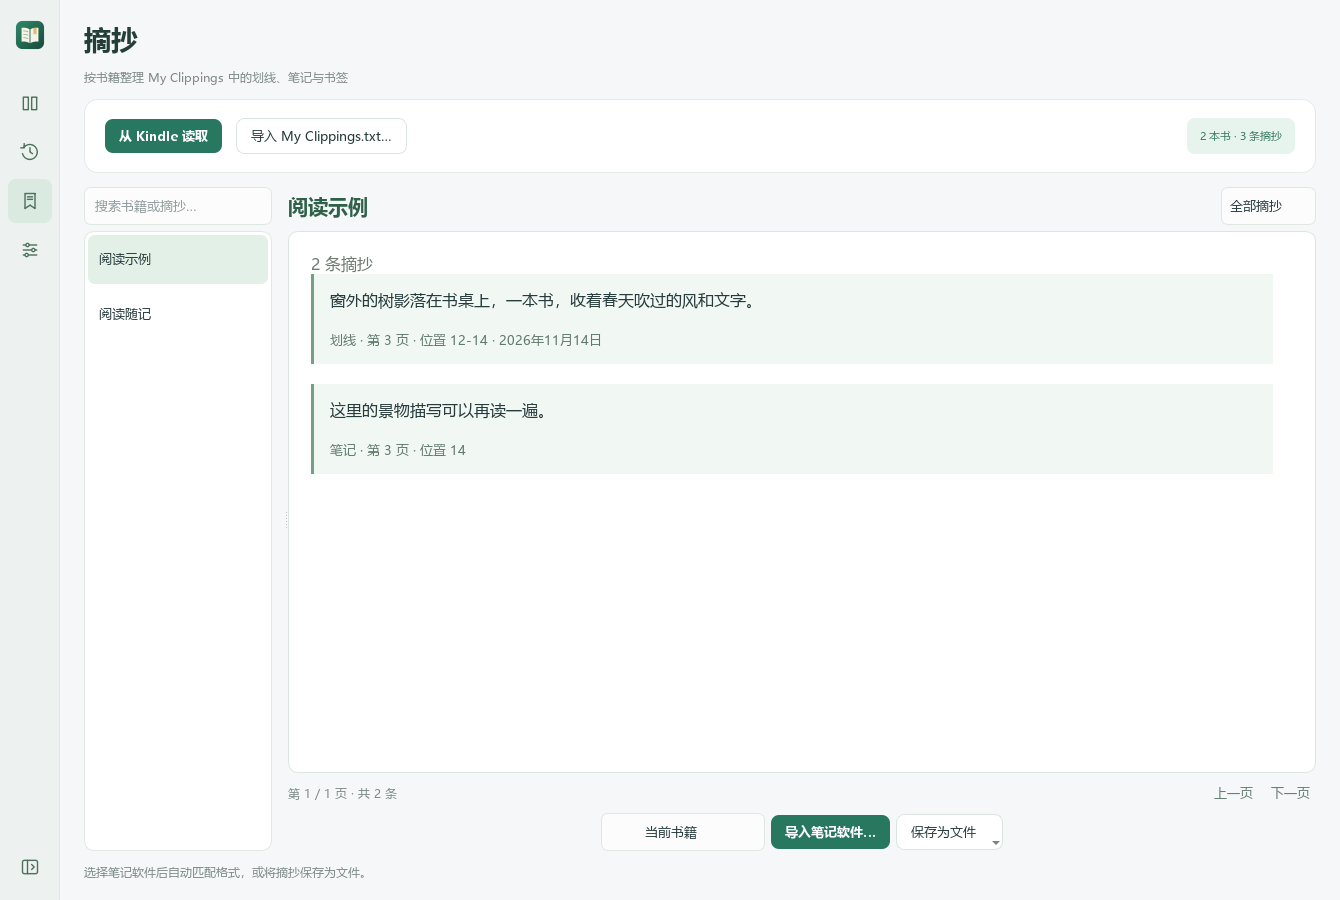
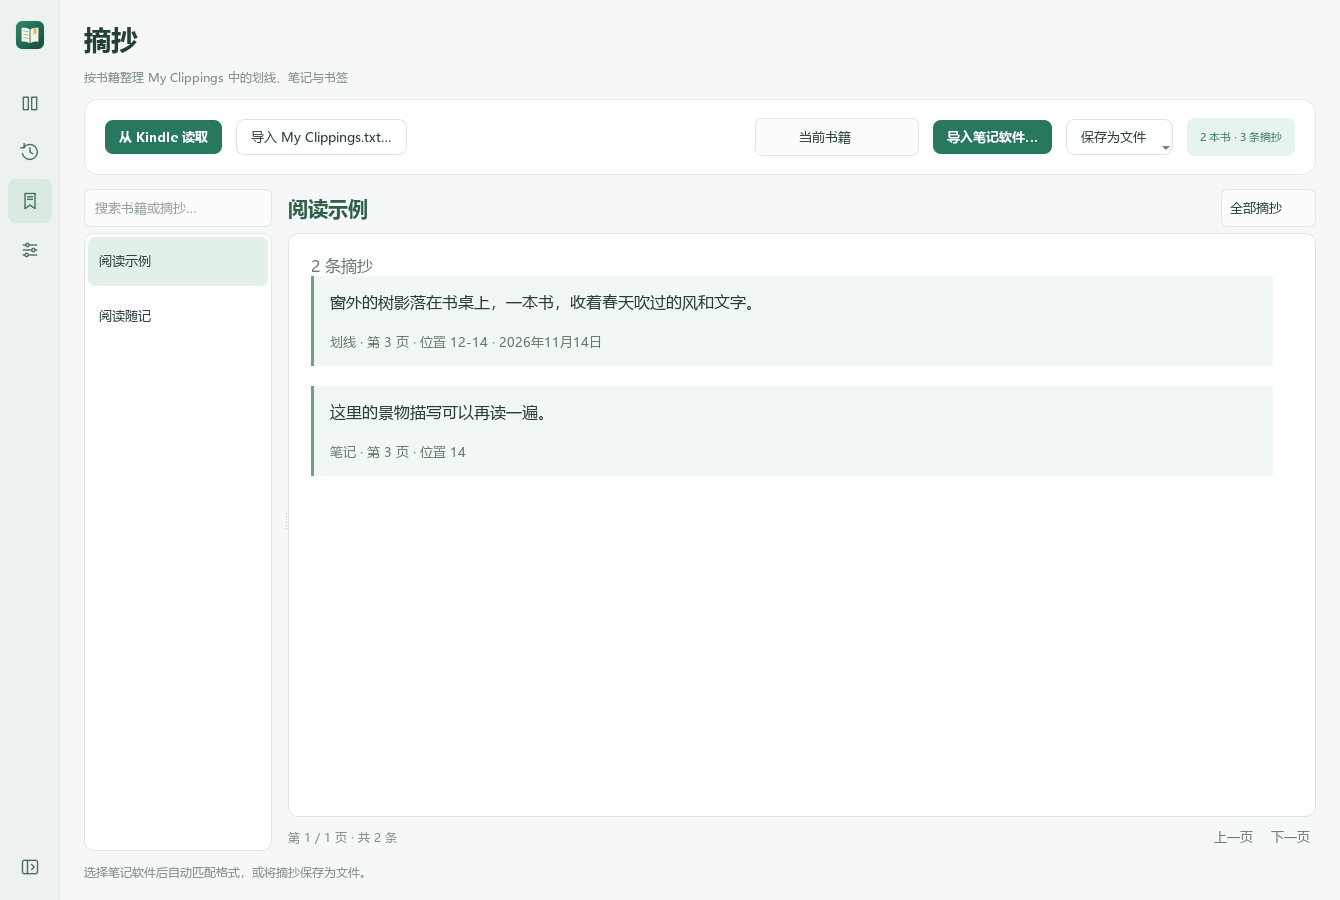
Move clipping actions to top and ask for covers only at batch conversion

diff --git a/lume/ui.py b/lume/ui.py
@@ -29,6 +29,7 @@ class MainWindow(UpgradeControls,DeviceWorkspace,QMainWindow):
         self.history=load_json('history.json',[])
         self.sources=[]
         self.book_covers={}
+        self._individual_covers=False
         self.tasks=[]
         self.font_id=-1
         self.runner=QueueRunner(self)
@@ -114,9 +115,6 @@ class MainWindow(UpgradeControls,DeviceWorkspace,QMainWindow):
         self.clear_button=button('清空',self.clear_queue,'Quiet')
         head.addWidget(self.clear_button)
         q.addLayout(head)
-        self.individual_covers=QCheckBox('为每本书单独设置封面')
-        self.individual_covers.setChecked(self.config.get('individual_covers',False))
-        q.addWidget(self.individual_covers)
         self.queue=table(['书籍','格式','大小','状态'])
         self.queue.setMinimumHeight(130)
         self.queue.itemSelectionChanged.connect(self.select_preview)
@@ -244,10 +242,6 @@ class MainWindow(UpgradeControls,DeviceWorkspace,QMainWindow):
         cw=QWidget()
         cl=QVBoxLayout(cw)
         cl.setContentsMargins(0,14,0,0)
-        self.cover_edit_button=button('逐本设置选中书籍的封面…',self.edit_cover_choices,'Primary')
-        self.cover_edit_button.setEnabled(self.individual_covers.isChecked())
-        cl.addWidget(self.cover_edit_button)
-        self.individual_covers.toggled.connect(self.individual_covers_changed)
         self.cover_preview=QLabel('保留原书封面')
         self.cover_preview.setAlignment(Qt.AlignmentFlag.AlignCenter)
         self.cover_preview.setMinimumHeight(300)
@@ -259,7 +253,7 @@ class MainWindow(UpgradeControls,DeviceWorkspace,QMainWindow):
         cl.addWidget(self.cover_path)
         cl.addWidget(button('选择封面图片…',self.choose_cover,'Primary'))
         cl.addWidget(button('清除选择 · 保留原书封面',lambda:self.set_cover(''),'Quiet'))
-        cl.addWidget(label('上方图片为统一封面。勾选“为每本书单独设置封面”后，改用逐本选择；直接发送保留原文件。','Muted',True))
+        cl.addWidget(label('单本转换使用当前封面；批量转换时可选择逐本设置。直接发送保留原文件。','Muted',True))
         cover_scroll=QScrollArea()
         cover_scroll.setWidgetResizable(True)
         cover_scroll.setWidget(cw)
@@ -406,7 +400,7 @@ class MainWindow(UpgradeControls,DeviceWorkspace,QMainWindow):
         data.update({key:spin.value() for key,spin in self.spins.items()})
         data.update(indent_mode=self.indent_mode.currentData(),alignment=self.alignment.currentData(),
                     font_path=self.font_combo.currentData() or '',subset_font=self.subset.isChecked(),
-                    cover_path='' if self.individual_covers.isChecked() else self.cover_path.text(),
+                    cover_path='' if self._individual_covers else self.cover_path.text(),
                     screen_profile=self.preset_combo.currentData() or 'paperwhite6')
         from .fonts import allow_subset
         data['subset_font']=data['subset_font'] and allow_subset(data['font_path'])
@@ -508,7 +502,6 @@ class MainWindow(UpgradeControls,DeviceWorkspace,QMainWindow):
             else: expanded.append(value)
         paths=expanded
         rejected=[]
-        added=[]
         existing={value.casefold() for value in self.sources}
         for value in paths:
             path=Path(value)
@@ -519,7 +512,6 @@ class MainWindow(UpgradeControls,DeviceWorkspace,QMainWindow):
             if full.casefold() in existing: continue
             existing.add(full.casefold())
             self.sources.append(full)
-            added.append(full)
             row=self.queue.rowCount()
             self.queue.insertRow(row)
             for col,text in enumerate((path.stem,path.suffix[1:].upper(),format_size(path.stat().st_size),'待转换')):
@@ -532,7 +524,6 @@ class MainWindow(UpgradeControls,DeviceWorkspace,QMainWindow):
         self.empty.setVisible(not self.sources)
         if self.sources and self.queue.currentRow()<0: self.queue.selectRow(0)
         self.update_actions()
-        if added and self.individual_covers.isChecked():self.edit_cover_choices(added)
         if rejected: QMessageBox.information(self,'未添加的文件','格式不受支持：\n'+'\n'.join(rejected[:10]))
 
     def queue_checks_changed(self):
@@ -603,7 +594,8 @@ class MainWindow(UpgradeControls,DeviceWorkspace,QMainWindow):
             layout.validate()
             self.config.update(layout=layout.to_dict(),output=self.output_path.text().strip() or str(ROOT/'output'),
                                kindlegen=self.kindlegen.text().strip(),font_dir=self.font_dir.text().strip(),
-                               format=self.output_format.currentData(),individual_covers=self.individual_covers.isChecked())
+                               format=self.output_format.currentData())
+            self.config.pop('individual_covers',None)
             self.config['layout']['cover_path']=self.cover_path.text()
             save_json('settings.json',self.config)
             if notify:
@@ -647,7 +639,7 @@ class MainWindow(UpgradeControls,DeviceWorkspace,QMainWindow):
         self.runner.start(jobs)
 
     def start_conversion(self,send=False):
-        if self._batch_busy or not self.sources or not self.save_settings(notify=False): return
+        if self._batch_busy or not self.sources: return
         device=self.current_device()
         if send:
             from .devices import USB_FORMATS
@@ -655,9 +647,16 @@ class MainWindow(UpgradeControls,DeviceWorkspace,QMainWindow):
             if '.'+self.output_format.currentData() not in USB_FORMATS: return
         self._batch_rows=self.queue.checked_rows()
         if not self._batch_rows: return
-        if self.individual_covers.isChecked():
-            pending=[self.sources[r] for r in self._batch_rows if self.sources[r] not in self.book_covers]
-            if pending and not self.edit_cover_choices(pending):return
+        self._individual_covers=False
+        if len(self._batch_rows)>1 and self.output_format.currentData()!='txt':
+            choice=self.choose_batch_cover_mode(len(self._batch_rows))
+            if choice is None:return
+            if choice=='individual':
+                self._individual_covers=True
+                if not self.edit_cover_choices([self.sources[r] for r in self._batch_rows]):
+                    self._individual_covers=False
+                    return
+        if not self.save_settings(notify=False):return
         try:
             layouts={r:self.layout_for_source(self.sources[r]) for r in self._batch_rows}
         except Exception as exc:
@@ -683,8 +682,6 @@ class MainWindow(UpgradeControls,DeviceWorkspace,QMainWindow):
         for b in (self.add_button,self.remove_button,self.clear_button): b.setEnabled(not value)
         self.cancel_button.setEnabled(value)
         self.output_format.setEnabled(not value)
-        self.individual_covers.setEnabled(not value)
-        self.cover_edit_button.setEnabled(not value and self.individual_covers.isChecked())
         self.preset_combo.setEnabled(not value)
         self.update_actions()
 
@@ -737,6 +734,7 @@ class MainWindow(UpgradeControls,DeviceWorkspace,QMainWindow):
         self.queue.item(row,3).setForeground(QColor('#ad6a55'))
 
     def batch_finished(self,cancelled):
+        self._individual_covers=False
         self.busy(False)
         self.apply_recommendation()
         converted=sum(r.get('operation')!='send' for r in self._batch_results.values())

diff --git a/tests/test_upgrade_ui.py b/tests/test_upgrade_ui.py
@@ -61,7 +61,8 @@ def test_batch_per_book_covers_are_distinct_and_direct_send_unchanged(window,tmp
         book=tmp_path/f'{i}.txt';book.write_text('第一章\n正文。',encoding='utf-8');books.append(str(book))
         cover=tmp_path/f'{i}.png';Image.new('RGB',(30,40),('red','blue')[i]).save(cover);covers.append(str(cover))
     window.add_files(books)
-    window.individual_covers.blockSignals(True);window.individual_covers.setChecked(True);window.individual_covers.blockSignals(False)
+    monkeypatch.setattr(window,'choose_batch_cover_mode',lambda count:'individual')
+    monkeypatch.setattr(window,'edit_cover_choices',lambda books:True)
     window.book_covers=dict(zip(books,covers))
     window.output_format.setCurrentIndex(window.output_format.findData('epub'))
     jobs=[];monkeypatch.setattr(window.runner,'start',lambda value:jobs.extend(value))
@@ -161,3 +162,18 @@ def test_note_target_picker_imports_selected_vault(window,app,tmp_path,monkeypat
         app.processEvents();time.sleep(.005);assert time.monotonic()<limit
     assert '已导入' in dialog.receipt and len(list(vault.rglob('*.md')))==1
     assert dialog.result()==QDialog.DialogCode.Accepted
+@pytest.mark.parametrize('count,choice,expected',[(2,'shared',2),(2,None,0),(1,'unused',1)])
+def test_cover_question_only_occurs_on_batch_conversion(window,tmp_path,monkeypatch,count,choice,expected):
+    paths=[]
+    for i in range(count):
+        p=tmp_path/f'book{i}.txt';p.write_text('第一章\n正文。',encoding='utf-8');paths.append(str(p))
+    calls=[]
+    monkeypatch.setattr(window,'choose_batch_cover_mode',lambda n:calls.append(n) or choice)
+    window.add_files(paths)
+    assert calls==[] and not hasattr(window,'individual_covers')
+    window.output_format.setCurrentIndex(window.output_format.findData('epub'))
+    jobs=[];monkeypatch.setattr(window.runner,'start',lambda value:jobs.extend(value))
+    window.start_conversion()
+    assert calls==([2] if count==2 else [])
+    assert len(jobs)==expected and len(window.sources)==count
+    assert all(Path(p).is_file() for p in paths)

diff --git a/lume/ui_upgrade.py b/lume/ui_upgrade.py
@@ -1,7 +1,7 @@
 """Device recommendations, reading presets and per-book cover controls."""
 from dataclasses import replace
 from pathlib import Path
-from PyQt6.QtWidgets import QDialog
+from PyQt6.QtWidgets import QDialog,QMessageBox
 from .presets import PRESETS,MODEL_NAMES,preset_values,recommend
 from .device_library import device_key
 
@@ -83,13 +83,23 @@ class UpgradeControls:
                 self.queue.item(row,3).setText('已选封面' if cover else '保留原封面')
         return True
 
-    def individual_covers_changed(self,checked):
-        self.cover_edit_button.setEnabled(checked and not self._batch_busy)
-        if checked and self.sources:self.edit_cover_choices()
+    def choose_batch_cover_mode(self,count):
+        dialog=QMessageBox(self)
+        dialog.setWindowTitle('本批书籍的封面')
+        dialog.setText(f'本次转换 {count} 本书，是否为每本书单独设置封面？')
+        dialog.setInformativeText('逐本设置可以分别选图或保留原封面。使用当前设置会应用封面页中的选择。')
+        individual=dialog.addButton('逐本设置封面',QMessageBox.ButtonRole.AcceptRole)
+        shared=dialog.addButton('使用当前封面设置',QMessageBox.ButtonRole.NoRole)
+        dialog.addButton('取消',QMessageBox.ButtonRole.RejectRole)
+        dialog.setDefaultButton(shared)
+        dialog.exec()
+        if dialog.clickedButton()==individual:return 'individual'
+        if dialog.clickedButton()==shared:return 'shared'
+        return None
 
     def layout_for_source(self,path):
         layout=self.layout_options()
-        if self.individual_covers.isChecked():layout.cover_path=self.book_covers.get(path,'')
+        if self._individual_covers:layout.cover_path=self.book_covers.get(path,'')
         device=self.current_device()
         if layout.kfx_mode=='auto' and device:
             rec=getattr(self,'recommendation',recommend(device))

diff --git a/lume/ui_clippings.py b/lume/ui_clippings.py
@@ -69,8 +69,6 @@ class ClippingsPanel(QWidget):
         rightbox.addLayout(pager)
         split.addWidget(right);split.setSizes([200,1100]);split.setStretchFactor(0,0);split.setStretchFactor(1,1);split.setChildrenCollapsible(False)
         box.addWidget(split,1)
-        footer=QHBoxLayout()
-        footer.addStretch()
         self.scope=QComboBox()
         self.scope.setEditable(True)
         self.scope.lineEdit().setReadOnly(True)
@@ -79,15 +77,15 @@ class ClippingsPanel(QWidget):
         self.scope.setFixedWidth(164)
         self.scope.addItem('当前书籍',False);self.scope.addItem('全部书籍',True)
         for i in range(self.scope.count()):self.scope.setItemData(i,Qt.AlignmentFlag.AlignCenter,Qt.ItemDataRole.TextAlignmentRole)
-        footer.addWidget(self.scope)
         self.transfer=button('导入笔记软件…',self.transfer_notes,'Primary')
         self.save_file=button('保存为文件',lambda:None)
         menu=QMenu(self.save_file)
         menu.addAction('Markdown · 通用文本',lambda:self.export('md'))
         menu.addAction('ENEX · 兼容笔记软件',lambda:self.export('enex'))
         self.save_file.setMenu(menu)
-        footer.addWidget(self.transfer);footer.addWidget(self.save_file);footer.addStretch()
-        rightbox.addLayout(footer)
+        row.insertWidget(row.count()-1,self.scope)
+        row.insertWidget(row.count()-1,self.transfer)
+        row.insertWidget(row.count()-1,self.save_file)
         self.status=label('选择笔记软件后自动匹配格式，或将摘抄保存为文件。','Muted',True)
         box.addWidget(self.status)
         self.search.textChanged.connect(self.refresh)

diff --git a/README.md b/README.md
@@ -9,11 +9,11 @@ Windows 电子书转换与 Kindle 书架管理工具，使用 Python / PyQt6 开
 ## v1.1.0 更新：新增与修复
 
 1. **兼容与界面修复**：增加 Voyage 等旧款 Kindle 的 KFX 书架封面兼容与封面缓存恢复；修复帮助页中文正文丢失、Markdown 表格和图片显示；主导航可收起为图标栏，并记住展开状态。
-2. **逐本设置封面**：批量添加时可勾选“为每本书单独设置封面”，按向导逐本选图或保留原封面；也可编辑已加入队列的书籍。直接发送保持原文件。
+2. **逐本设置封面**：选中多本书并开始转换时，弹窗选择“逐本设置封面”或“使用当前封面设置”，再按向导逐本选图或保留原封面；添加书籍时不弹窗。直接发送保持原文件。
 3. **设备预设与格式推荐**：提供七种阅读预设，连接 Kindle 后在转换前显示推荐格式与原因，特殊机型自动切换，也可手动指定型号和格式。内置霞鹜文楷、汇文明朝、悠哉字体，保留自备字体入口。
 4. **摘抄管理与导出**：读取或导入 My Clippings.txt，按书籍分类查看划线、笔记和书签，使用窄书名列表与宽阅读区，支持搜索、分页与重复导入去重；检测本机笔记软件，按目标自动转换并导入或打开文件导入流程，也可保存为 ENEX / Markdown。[查看摘抄界面示例](docs/images/clippings.png)。
 
-验证：105 项自动测试通过，独立 EXE 完成 56 次格式转换（其中 49 次为非 TXT 输入互转）；ENEX / ENML 通过官方 DTD 校验。Voyage 真机书架显示仍需设备复核，旧 PDOC KFX 请重新转换并发送。详见 [更新记录](docs/CHANGELOG.md) 和 [Voyage 封面说明](docs/VOYAGE_COVERS.md)。
+验证：108 项自动测试通过，独立 EXE 完成 56 次格式转换（其中 49 次为非 TXT 输入互转）；ENEX / ENML 通过官方 DTD 校验。Voyage 真机书架显示仍需设备复核，旧 PDOC KFX 请重新转换并发送。详见 [更新记录](docs/CHANGELOG.md) 和 [Voyage 封面说明](docs/VOYAGE_COVERS.md)。
 
 ![书籍工作台](docs/images/workspace.png)
 
@@ -87,7 +87,7 @@ Windows 电子书转换与 Kindle 书架管理工具，使用 Python / PyQt6 开
 
 阅读预设包含 **Paperwhite 6、Voyage、6 英寸入门版、Paperwhite 5、Oasis、Scribe 10.2 / 11 英寸**。可自由调整行距、段距、缩进和字号；PDF 页面尺寸跟随预设。切换预设保留已选字体和封面。
 
-批量添加前勾选 **“为每本书单独设置封面”**，即可逐本选图或保留原封面。已添加书籍可在“封面”页点击“逐本设置选中书籍的封面”。取消向导不会丢失队列；开始转换时会继续引导尚未确认的书籍。直接发送不改封面。
+选中多本书并点击 **“仅转换”或“转换并发送”** 时，会询问本批封面方式：选择“逐本设置封面”进入向导，或选择“使用当前封面设置”。添加书籍、单本转换、直接发送以及不支持封面的 TXT 输出都不询问。取消弹窗保留队列。主界面不再为逐本封面单独占用一行。
 
 内置 **霞鹜文楷、汇文明朝（符号修正版）、悠哉字体**，安装后可直接选择。仓耳今楷、京华老宋、上图东观体等自备字体仍可从本地字体目录选择。字体来源和分发范围见 [字体说明](docs/FONTS.md)。
 
@@ -95,7 +95,7 @@ Windows 电子书转换与 Kindle 书架管理工具，使用 Python / PyQt6 开
 
 侧栏“摘抄”支持从当前 Kindle 的 `My Clippings.txt` 读取，或导入电脑上的副本。按书名与作者分组，区分划线、笔记、书签，支持全文搜索和分页；重复导入自动去重，原始文件不修改。
 
-点击 **“导入笔记软件”**，软件检测本机已安装的适配应用；选择目标后自动匹配格式。左侧仅显示书名，点击后在主栏阅读摘抄。主导航可收起，底部范围选择器与操作按钮居中。
+点击 **“导入笔记软件”**，软件检测本机已安装的适配应用；选择目标后自动匹配格式。左侧仅显示书名，点击后在主栏阅读摘抄。主导航可收起，范围选择器文字居中，导入与保存操作集中在顶部工具栏。
 
 | 目标 | 自动转换与导入方式 | 需要用户设置的内容 |
 |---|---|---|

diff --git a/docs/USAGE.md b/docs/USAGE.md
@@ -64,7 +64,7 @@
 
 - 输出格式下方提前显示设备推荐；连接特殊机型时自动切换，手动选择的格式不会被周期刷新覆盖。设备栏可补充指定型号。
 - 阅读样式顶部可选七种预设；预设控制默认排版和 PDF 页面尺寸，不改变字体和封面。
-- 队列上方勾选“为每本书单独设置封面”，添加书籍后逐本确认；也可在封面页编辑已有选择。
+- 批量转换开始时弹窗选择逐本封面或当前封面设置；选逐本后进入向导。添加书籍、单本转换、直接发送不询问。
 - “摘抄”页从 Kindle 读取或导入 My Clippings.txt，重复记录去重，按书籍查看；100 条一页，支持搜索、类型筛选和 ENEX / Markdown 导出。
 - ENEX 为印象笔记 / Evernote 文件导入格式，每本书一条笔记；导出当前书籍时包含该书全部摘抄，不受搜索或类型筛选影响。
 - 选择内置字体即可嵌入；其他字体可放入自定义字体文件夹。详见 [字体说明](FONTS.md)。
@@ -73,7 +73,7 @@
 ## 摘抄布局与导入笔记软件
 
 - 左下角按钮可收起或展开主导航，状态自动保存。书籍列表保持窄栏，只显示书名；完整书名、作者和条数可悬停查看。
-- 选择书名后，主栏显示该书的划线、笔记和书签。底部范围控件与操作按钮居中。
+- 选择书名后，主栏显示该书的划线、笔记和书签。范围控件文字居中，导入与保存按钮位于顶部工具栏。
 - 点击“导入笔记软件”，自动检测本机适配的应用；可以选择当前书籍或全部书籍。
 - Obsidian：选择自动发现或手动指定的现有笔记库，直接写入逐本 Markdown；原笔记不覆盖。
 - Logseq：选择文件图谱目录，将逐本 Markdown 写入 pages。数据库图谱需通过文件导入。

diff --git a/docs/CHANGELOG.md b/docs/CHANGELOG.md
@@ -2,11 +2,11 @@
 
 - 修复 Voyage 等旧款 Kindle 的 KFX 书架封面兼容，增加已发送封面的缓存恢复。
 - 修复帮助文档中文正文丢失与 Markdown 表格渲染，统一明亮主题。
-- 批量书籍增加逐本封面复选框和设置向导，直接发送继续保留原文件。
+- 批量转换开始时询问是否逐本设置封面，并提供设置向导；主界面不占用独立选项行，直接发送继续保留原文件。
 - 增加七种阅读预设，PDF 页面尺寸跟随设备尺寸。
 - 连接设备后提前显示格式推荐与原因；支持自动型号识别和手动指定。
 - 内置霞鹜文楷、汇文明朝、悠哉字体及各自许可；保留自备字体支持。
-- 新增摘抄页：USB / MTP 读取或文件导入，按书籍分类、搜索、分页、去重；窄书名栏、宽阅读区和居中的操作区。
+- 新增摘抄页：USB / MTP 读取或文件导入，按书籍分类、搜索、分页、去重；窄书名栏、宽阅读区和顶部工具栏。
 - 主导航去掉编号，可收起为图标栏并记住状态。
 - 检测本机笔记软件，支持 Obsidian / Logseq 文件库直接写入、Joplin 本地接口导入，以及 ENEX / Markdown ZIP 接收流程；保留通用文件导出。
 

diff --git a/docs/VALIDATION.md b/docs/VALIDATION.md
@@ -27,7 +27,7 @@
 
 ## 1.1.0 新增验证
 
-- 105 项自动测试全部通过，覆盖旧款封面类型与缩略图恢复、逐本封面、设备推荐、预设页面、中文帮助、导航收起、摘抄解析分页与导出。
+- 108 项自动测试全部通过，覆盖旧款封面类型与缩略图恢复、逐本封面、设备推荐、预设页面、中文帮助、导航收起、摘抄解析分页与导出。
 - 笔记导入在隔离目录和模拟服务中验证：Obsidian / Logseq 文件写入、同名保护、ENEX 接收状态、Notion ZIP、Joplin 本地 HTTP 授权和笔记创建、拒绝与取消。未向私人笔记库写入测试内容，也未将模拟接口测试表述为第三方应用实机验证。
 - ENEX 与 ENML 通过 Evernote 官方 DTD 校验。3 万条摘抄解析和重复导入去重通过。
 - 独立 EXE 进行 56 次格式转换，其中 49 次为非 TXT 输入互转；逐项回读正文标记。
